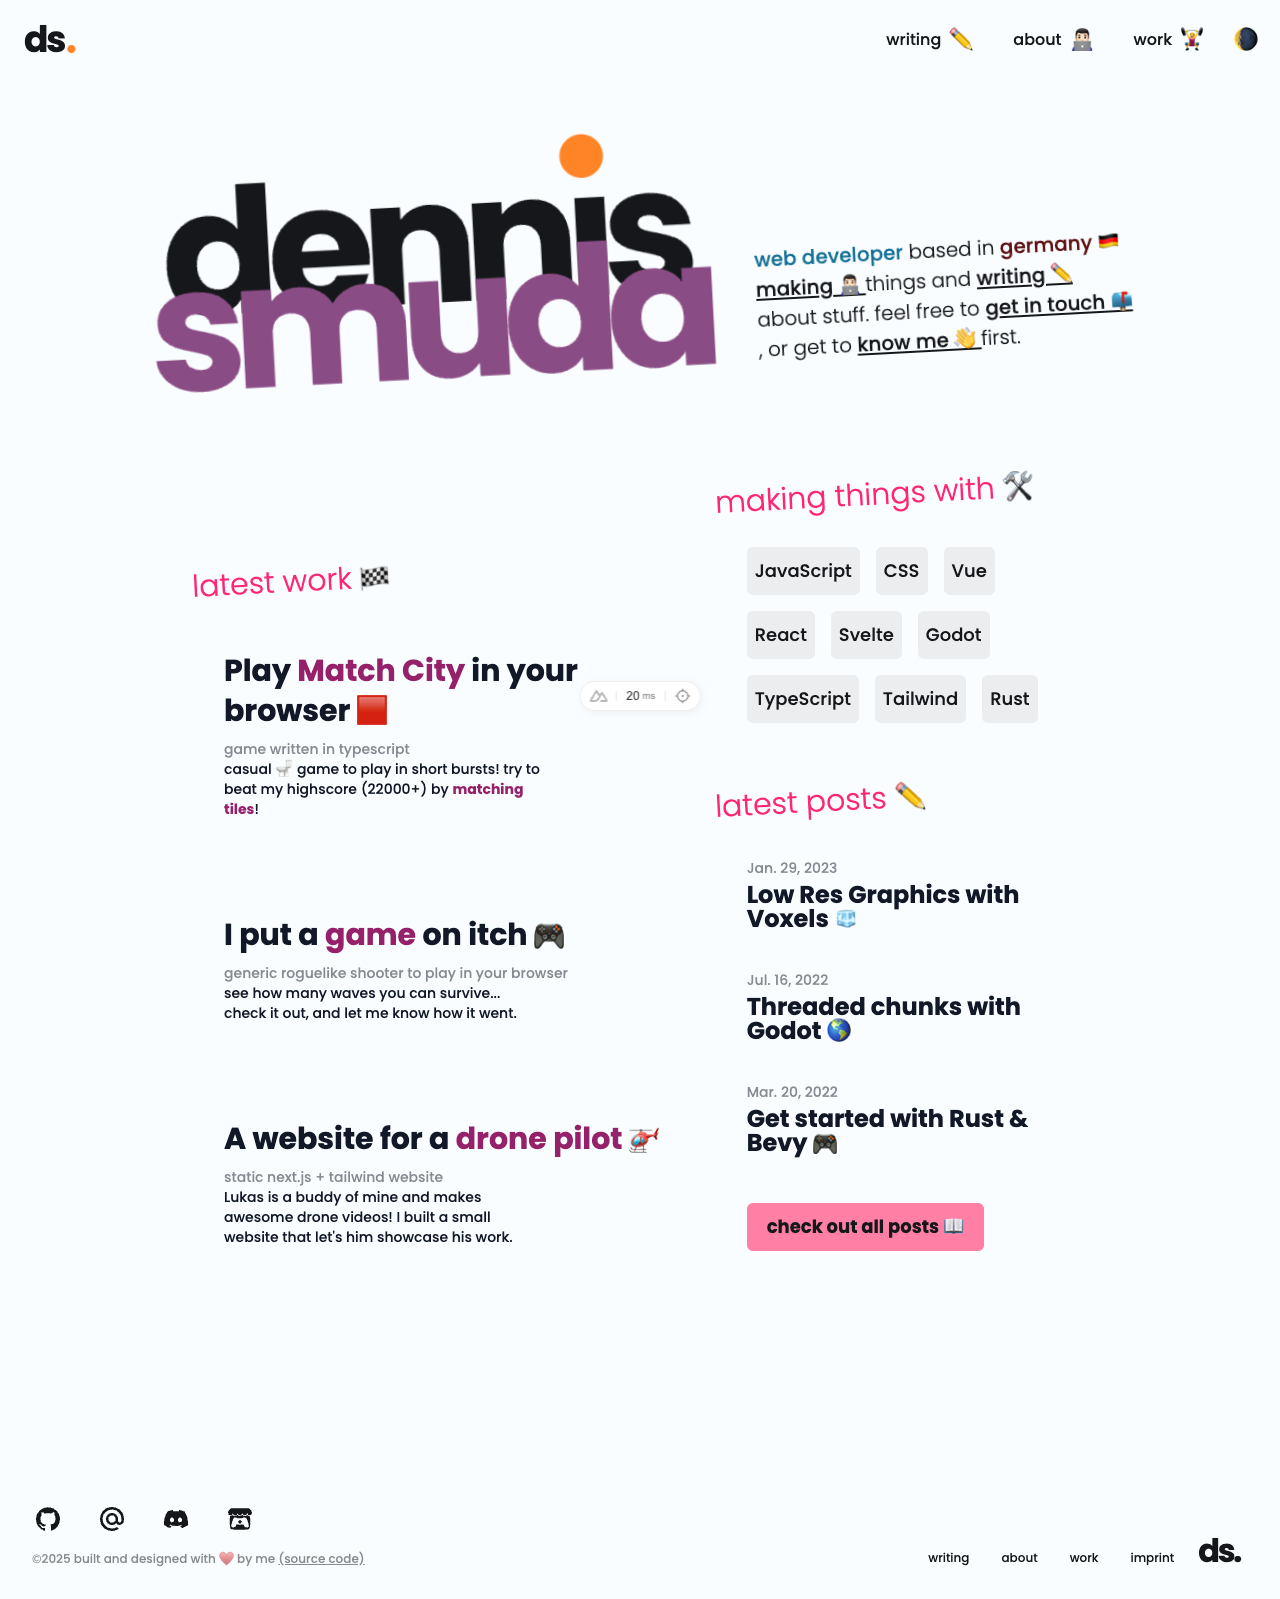
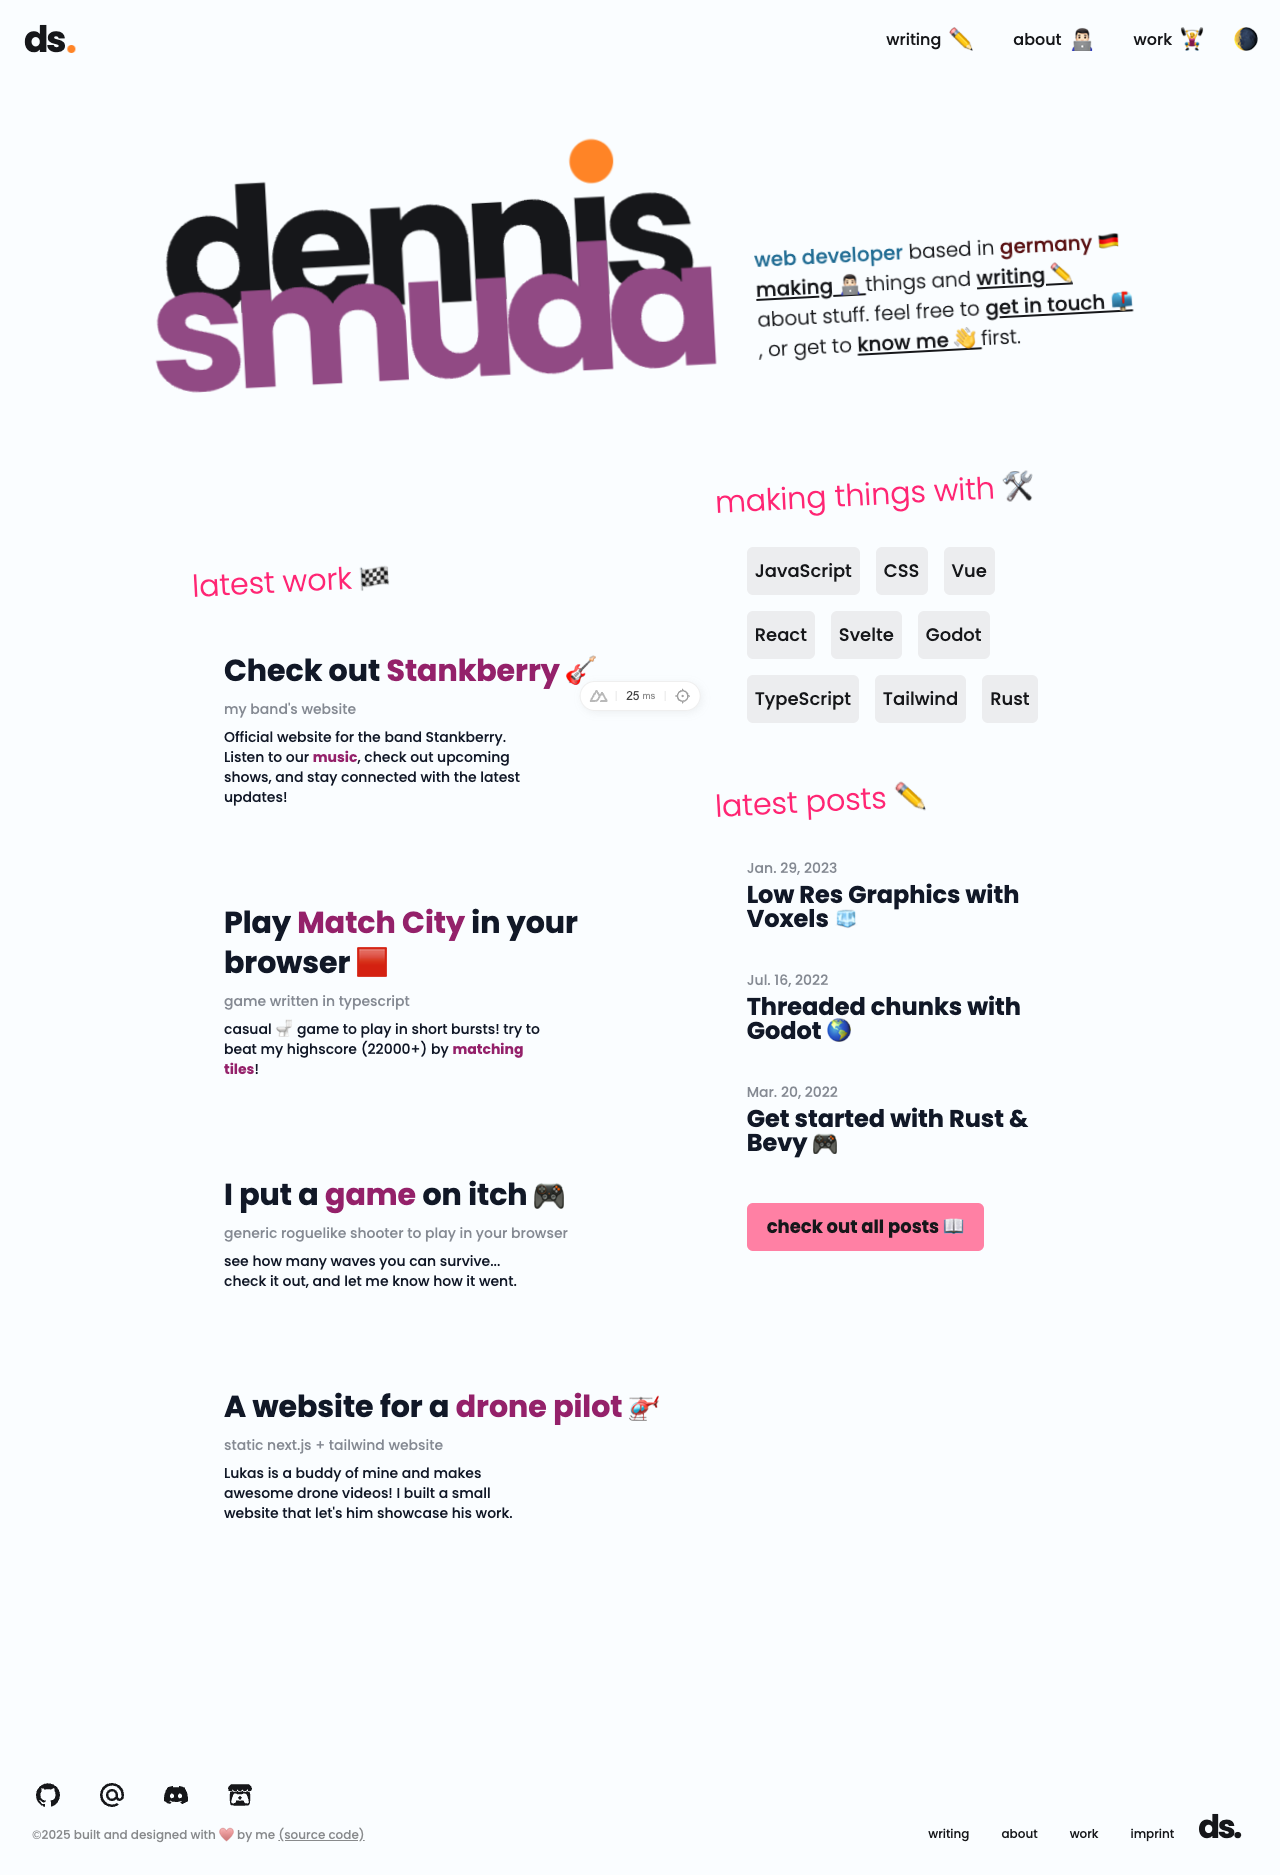
test: e2e test adjustments

diff --git a/test/e2e/home-page.test.ts b/test/e2e/home-page.test.ts
@@ -28,7 +28,7 @@ test.describe('page: index', async () => {
 
   test('shows my three latest projects', async ({ page }) => {
     const projects = await page.locator('a.project')
-    await expect(projects).toHaveCount(3)
+    await expect(projects).toHaveCount(4)
 
     const firstEntry = projects.nth(0)
     await expect(firstEntry).toHaveAttribute('target', '_blank')

diff --git a/test/e2e/work-page.test.ts b/test/e2e/work-page.test.ts
@@ -15,6 +15,6 @@ test.describe('page: work', () => {
 
   test(`shows all ${6} projects`, async ({ page }) => {
     const projects = await page.locator('.project')
-    await expect(projects).toHaveCount(6)
+    await expect(projects).toHaveCount(7)
   })
 })
